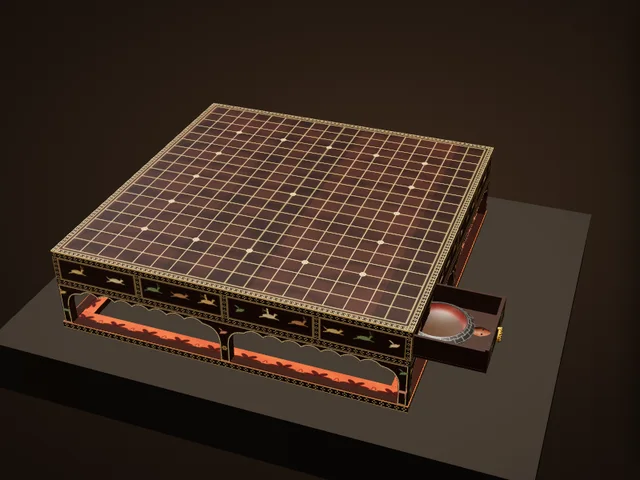
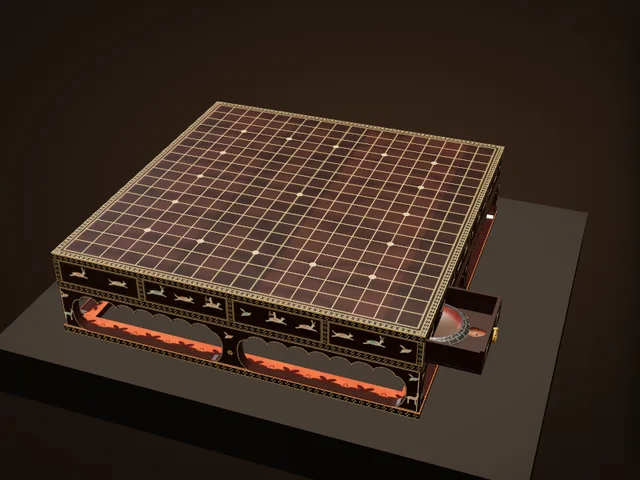
博物館：木画紫檀棊局の開口部を正倉院の細部写真に合わせ直し、側面の鳥獣を染め象牙風に
Claude-Session: https://claude.ai/code/session_01EiWRAZTxRF5M5nk5vdR2jJ

diff --git a/atlas/museum/ex/shosoin.js b/atlas/museum/ex/shosoin.js
@@ -19,8 +19,16 @@
       const shitan = K.mat({ map: shT, roughnessMap: shR, color: '#ffffff', roughness: .5, clearcoat: .4, clearcoatRoughness: .35 });
       const ivory = K.mat({ color: '#e9dcbc', roughness: .4, clearcoat: .25, clearcoatRoughness: .4 });
       const C = { iv: '#e6d2a4', box: '#d9b46a', grn: '#7d9468', red: '#b98a62', dk: '#3a1a10', tan: '#c49a5c', pink: '#d99a86' };
+      // dyed, engraved ivory (撥鏤風): the piece stays ivory, washed with colour in places and pricked with fine dots (the Shōsōin's detail photographs)
+      let dq = 5; const dr = () => ((dq = (dq * 16807) % 2147483647) / 2147483647);
+      const dye = (g, col) => { g.save(); g.clip('evenodd'); g.fillStyle = '#eadfc4'; g.fillRect(-45, -45, 90, 80);
+        const w1 = col === C.grn ? '#6fa08c' : col === C.iv ? '#d9a27c' : '#dd8f6c', w2 = col === C.grn ? '#d8a070' : '#7fa7a0';
+        let gr = g.createRadialGradient(-6 + dr() * 12, -6, 2, 0, 0, 30); gr.addColorStop(0, w1); gr.addColorStop(1, 'rgba(234,223,196,0)'); g.globalAlpha = .8; g.fillStyle = gr; g.fillRect(-45, -45, 90, 80);
+        gr = g.createRadialGradient(18 - dr() * 40, 6, 1, 10, 4, 16); gr.addColorStop(0, w2); gr.addColorStop(1, 'rgba(234,223,196,0)'); g.globalAlpha = .45; g.fillStyle = gr; g.fillRect(-45, -45, 90, 80);
+        g.globalAlpha = .7; g.fillStyle = '#8a3a22'; for (let i = 0; i < 46; i++) { g.beginPath(); g.arc(-30 + dr() * 60, -24 + dr() * 44, .5, 0, 6.29); g.fill(); }
+        g.restore(); };
       const sil = (g, kind, x, y, k, col) => {   // a figure in silhouette with a few engraved lines (the 撥鏤-like detail)
-        g.save(); g.translate(x, y); g.scale(k, k); g.fillStyle = col; g.strokeStyle = 'rgba(40,18,8,.55)'; g.lineWidth = .9; g.beginPath();
+        g.save(); g.translate(x, y); g.scale(k, k); g.fillStyle = col; g.strokeStyle = 'rgba(60,26,12,.7)'; g.lineWidth = .7; g.beginPath();
         if (kind === 'camel') { g.moveTo(-26, 4); g.quadraticCurveTo(-24, -14, -10, -16); g.quadraticCurveTo(-4, -26, 2, -16); g.quadraticCurveTo(8, -24, 14, -14); g.quadraticCurveTo(20, -12, 22, -22); g.lineTo(30, -26); g.lineTo(31, -21); g.lineTo(26, -18); g.quadraticCurveTo(24, -4, 18, 2);
           g.lineTo(18, 22); g.lineTo(14, 22); g.lineTo(13, 4); g.lineTo(-14, 4); g.lineTo(-15, 22); g.lineTo(-19, 22); g.lineTo(-20, 4); g.closePath(); }
         else if (kind === 'elephant') { g.moveTo(-28, -2); g.quadraticCurveTo(-26, -24, 0, -24); g.quadraticCurveTo(18, -24, 22, -10); g.quadraticCurveTo(30, -6, 30, 8); g.quadraticCurveTo(30, 20, 34, 22); g.lineTo(28, 22); g.quadraticCurveTo(24, 10, 22, 4);
@@ -53,13 +61,13 @@
             g.moveTo(-4, -10); g.lineTo(-7, -24); g.lineTo(-1, -24); g.lineTo(2, -10); g.closePath(); g.moveTo(-1, -28); g.arc(-4, -28, 3.4, 0, 6.29);
             g.moveTo(-5, -21); g.lineTo(-17, -23); g.lineTo(-17, -21); g.lineTo(-5, -19); g.closePath();
             g.moveTo(-17, -33); g.quadraticCurveTo(-24, -22, -17, -11); g.lineTo(-16.2, -11.4); g.quadraticCurveTo(-22.4, -22, -16.2, -32.6); g.closePath(); }
-          g.fill('evenodd'); g.stroke(); g.beginPath(); g.moveTo(-8, -6); g.quadraticCurveTo(2, -3, 12, -6); g.moveTo(14, -4); g.lineTo(17, -12); g.stroke();   // engraved lines
+          g.fill('evenodd'); dye(g, col); g.stroke(); g.beginPath(); g.moveTo(-8, -6); g.quadraticCurveTo(2, -3, 12, -6); g.moveTo(14, -4); g.lineTo(17, -12); g.stroke();   // engraved lines
           g.fillStyle = 'rgba(40,14,6,.75)'; g.beginPath(); g.arc(kind === 'hound' ? 26 : 23.5, kind === 'hound' ? -11 : -15, 1, 0, 6.29); g.fill(); g.restore(); return; }
         else if (kind === 'tree') { g.moveTo(-1.6, 24); g.lineTo(-1.2, -2); g.lineTo(1.2, -2); g.lineTo(1.6, 24); g.closePath(); for (let i = 0; i < 5; i++) { const yy = -4 - i * 6, ww = 14 - i * 2.2; g.moveTo(0, yy - 6); g.quadraticCurveTo(ww, yy, 0, yy + 2); g.quadraticCurveTo(-ww, yy, 0, yy - 6); } }
         else if (kind === 'flower') { for (let i = 0; i < 6; i++) { const a = i * Math.PI / 3; g.moveTo(0, 0); g.ellipse(Math.cos(a) * 6, Math.sin(a) * 6, 6, 3, a, 0, 6.29); } }
         else if (kind === 'lion') { g.moveTo(-24, 4); g.quadraticCurveTo(-22, -12, -4, -12); g.quadraticCurveTo(8, -24, 20, -14); g.quadraticCurveTo(26, -8, 22, 0); g.lineTo(18, 22); g.lineTo(13, 22); g.lineTo(12, 6); g.lineTo(-14, 6); g.lineTo(-17, 22); g.lineTo(-21, 22); g.lineTo(-22, 6);
           g.quadraticCurveTo(-34, 0, -30, -12); g.quadraticCurveTo(-28, -2, -24, 4); g.closePath(); }
-        g.fill('evenodd'); g.stroke(); g.restore();
+        g.fill('evenodd'); if (kind !== 'flower' && kind !== 'tree') dye(g, col); g.stroke(); g.restore();
       };
 
       // a band of small ivory lozenges (the "diamond chain" round every edge in the photographs)
@@ -115,21 +123,21 @@
       const edgeM = K.mat({ map: edgeT, color: '#ffffff', roughness: .45, clearcoat: .35 });
       add(new TT.BoxGeometry(S + .1, TOP, S + .1), [edgeM, edgeM, faceMat, shitan, edgeM, edgeM], 0, H - TOP / 2, 0);
       /* ---------- the 床脚: corner legs, a post in the middle of each side, openings with cusped tops, the floor rail ---------- */
-      const LEG = 1.15, POST = 1.25, OH = BASE - RAIL - .05;   // leg / post width; the openings' height (the cusps hang right under the body)
+      const LEG = 1.45, POST = 1.9, OH = BASE - RAIL - .05;   // leg / post width; the openings' height (the cusps hang right under the body)
       const skirt = new TT.Shape(); skirt.moveTo(-S / 2, 0); skirt.lineTo(S / 2, 0); skirt.lineTo(S / 2, BASE - RAIL); skirt.lineTo(-S / 2, BASE - RAIL); skirt.closePath();
-      const open = (x0, x1) => { const p = new TT.Path(), top = OH, E = 2.3, nC = 7, xa0 = x0 + E, xa1 = x1 - E, cw = (xa1 - xa0) / nC, dip = .95;
-        // (the photograph) the sides drop straight to the floor frame; at each top corner the leg sweeps out in a long concave curve to a
-        // point, and between the two points hangs a row of seven shallow cusps
-        p.moveTo(x0, 0); p.lineTo(x1, 0); p.lineTo(x1, top - 3.3); p.quadraticCurveTo(x1 - .15, top - 1.0, xa1, top - dip);
-        for (let i = nC; i > 0; i--) { const xa = xa0 + i * cw, xb = xa - cw; p.quadraticCurveTo((xa + xb) / 2, top + .25, xb, top - dip); }
-        p.quadraticCurveTo(x0 + .15, top - 1.0, x0, top - 3.3); p.lineTo(x0, 0); return p; };
+      const open = (x0, x1) => { const p = new TT.Path(), top = OH, E = 1.55, B = 1.9, nC = 7, xa0 = x0 + E, xa1 = x1 - E, cw = (xa1 - xa0) / nC, dip = 1.45, at = .5;
+        // (the Shōsōin's detail photographs CO0000000428–430) each end a full round bulge — the leg narrowest two-thirds of the way up and
+        // spreading to its foot — and across the top seven arches, their points hanging down between them
+        p.moveTo(x0 + B, 0); p.lineTo(x1 - B, 0); p.bezierCurveTo(x1 + .35, .15, x1 + .45, top - 1.3, xa1, top - dip);
+        for (let i = nC; i > 0; i--) { const xa = xa0 + i * cw, xb = xa - cw; p.bezierCurveTo(xa - cw * .1, top - at + .15, xb + cw * .1, top - at + .15, xb, top - dip); }
+        p.bezierCurveTo(x0 - .45, top - 1.3, x0 - .35, .15, x0 + B, 0); return p; };
       const half = (S - 2 * LEG - POST) / 2;
       skirt.holes.push(open(-S / 2 + LEG, -S / 2 + LEG + half), open(S / 2 - LEG - half, S / 2 - LEG));
       const skG = new TT.ExtrudeGeometry(skirt, { depth: 1.2, bevelEnabled: true, bevelThickness: .06, bevelSize: .06, bevelSegments: 1, curveSegments: 10 });
       // the legs' faces: dark shitan edged in ivory, little birds and deer set into the legs and the post
       const legT = K.tex(2048, Math.round(2048 * (BASE - RAIL) / S), (g, w, h) => { g.drawImage(shT.image, 0, 0, w, h); const s = w / S;
         g.strokeStyle = C.iv; g.lineWidth = s * .08; g.strokeRect(s * .15, s * .1, w - s * .3, h - s * .2);
-        g.strokeStyle = '#e4cf9a'; g.lineWidth = s * .2; skirt.holes.forEach(hp => { g.beginPath(); hp.getPoints(24).forEach((p, i) => { const X = (p.x + S / 2) * s, Y = h - p.y * s; i ? g.lineTo(X, Y) : g.moveTo(X, Y); }); g.closePath(); g.stroke(); });
+        g.strokeStyle = '#e4cf9a'; g.lineWidth = s * .1; skirt.holes.forEach(hp => { g.beginPath(); hp.getPoints(24).forEach((p, i) => { const X = (p.x + S / 2) * s, Y = h - p.y * s; i ? g.lineTo(X, Y) : g.moveTo(X, Y); }); g.closePath(); g.stroke(); });
         [[LEG / 2, 'bird', .8], [LEG / 2, 'deer', .3], [S / 2, 'bird', .75], [S / 2, 'flower', .35], [S - LEG / 2, 'bird', .8], [S - LEG / 2, 'deer', .3]].forEach(([x, kd, fy], i) => sil(g, kd, x * s, h * (1 - fy), s * .035, [C.box, C.grn, C.pink][i % 3])); });
       legT.repeat.set(1 / S, 1 / (BASE - RAIL)); legT.offset.set(.5, 0);
       const legM = K.mat({ map: legT, color: '#ffffff', roughness: .5, clearcoat: .35, clearcoatRoughness: .35 });
@@ -148,7 +156,7 @@
       [[S + .3, RW, 0, S / 2 - RW / 2 + .15], [S + .3, RW, 0, -S / 2 + RW / 2 - .15]].forEach(([w, d, x, z]) => add(new TT.BoxGeometry(w, RAIL, d), [rsEnd, rsEnd, kak, shitan, z > 0 ? rsM : shitan, z > 0 ? shitan : rsM], x, RAIL / 2, z));
       [[RW, S - 2 * RW + .3, S / 2 - RW / 2 + .15, 0], [RW, S - 2 * RW + .3, -S / 2 + RW / 2 - .15, 0]].forEach(([w, d, x, z]) => { const k2 = kak.clone(); k2.map = kakT.clone(); k2.map.center.set(.5, .5); k2.map.rotation = Math.PI / 2; k2.map.needsUpdate = true; add(new TT.BoxGeometry(w, RAIL, d), [x > 0 ? rsM : shitan, x > 0 ? shitan : rsM, k2, shitan, shitan, shitan], x, RAIL / 2, z); });
       /* ---------- the drawers: at diagonally opposite ends of the two side faces (±x); the near one pulled out ---------- */
-      const DW = S / 4 - .95, DH = BODY - TOP - 1.75, OUT = 8.6, gilt = K.mat({ color: '#d6a84c', roughness: .3, metalness: 1 });
+      const DW = S / 4 - .95, DH = BODY - TOP - 1.75, OUT = 6.4, gilt = K.mat({ color: '#d6a84c', roughness: .3, metalness: 1 });
       const dark = K.mat({ color: '#2a1810', roughness: .6 });
       const DG = new TT.Group(); DG.rotation.y = 0; G.add(DG);
       const drawer = (sx, z, out) => { const g2 = new TT.Group(); g2.position.set(sx * (S / 2 + out), BASE + (BODY - TOP) / 2, z); g2.rotation.y = sx > 0 ? Math.PI / 2 : -Math.PI / 2; DG.add(g2);

diff --git a/atlas/museum.js b/atlas/museum.js
@@ -32,7 +32,7 @@
   const ROOMS = [
     { id: 'map', ready: () => !!window.AtlasMap, render: (el, c) => AtlasMap.render(el, c) },
     { id: 'tree', src: ['museum/tree.js?v=3'], ready: () => !!window.AtlasTree, render: (el, c) => AtlasTree.render(el, c) },
-    { id: 'gallery', src: ['museum/gallery.js?v=48'], ready: () => !!window.AtlasGallery, render: (el, c) => AtlasGallery.render(el, c) },
+    { id: 'gallery', src: ['museum/gallery.js?v=49'], ready: () => !!window.AtlasGallery, render: (el, c) => AtlasGallery.render(el, c) },
   ];
   const KEY = 'atlas-museum-room';
   const esc = s => String(s == null ? '' : s).replace(/[&<>"]/g, c => ({ '&': '&amp;', '<': '&lt;', '>': '&gt;', '"': '&quot;' }[c]));

diff --git a/atlas/index.html b/atlas/index.html
@@ -2559,7 +2559,7 @@ window.AtlasRgdTimer = function (btn, ms, alive) {
 <link rel="stylesheet" href="worldmap.css?v=19">
 <link rel="stylesheet" href="museum.css?v=4">
 <script src="worldmap.js?v=40"></script>
-<script src="museum.js?v=49"></script>
+<script src="museum.js?v=50"></script>
 <script src="npc/npc.js?v=46"></script>
 <script src="avtalk.js?v=4"></script>
 <script>/* Page states as classes on <html> (2026-11-21) — html.cov-on: the 3D view / Historia / a sheet / a level sheet is open;

diff --git a/atlas/museum/gallery.js b/atlas/museum/gallery.js
@@ -10,7 +10,7 @@
    (a turn, a zoom, the slow turntable) and never while the window is in the background. */
 (function () {
   'use strict';
-  const V = 48;
+  const V = 49;
   /* ---------- the pieces: id, the game it belongs to, its scale (cm per model unit), the camera's start, the details ----------
      lock: { game, ach } → open after that many achievements of the game. src: the files the piece needs (besides ex/<id>.js) */
   const EX = [

diff --git a/claude/museum-spec.md b/claude/museum-spec.md
@@ -68,7 +68,7 @@
       - オスマン盤バックギャモン面：螺鈿の配置は V&A 写真 2012FP3720 を正方形に直して抜き出した配置図（images/atlas/ex/ottoman-inlay.webp、アルファ＝貝と骨の線、赤＝緑染めの骨）をそのまま使う。貝・鼈甲の質感は従来どおりコードで描く。枠（立ち上がり）も同じ絵の該当部分を貼る。
       - セネト盤：展示写真（正面）に合わせ、台の高さを写真から測った約17cm（全体約25cm）に、脚を太く、足先は4本の長い指（爪は見せない）、金の円筒は段つき、マスの間の黒檀の帯を太く（マスの約1/6）、銘文帯を大きく・王名の輪を引き出しと反対の端に、26〜29番のマスの印（ネフェル3つ・水・鳥3羽・人2人）、投げ棒は茶色の木の2本、距骨は琥珀色2・象牙色1。
     - セネト盤の銘文：グリフィス研究所のカーターの記録カード345-06（箱の文字の写し）に従い、王の五つの名を実際の順で刻む（引き出し側の側面は右から左へ読む向き、王名の輪は左端）。引き出しの口のまわりにも枠状の銘文。引き出しの前板は無地。
-    - 木画紫檀棊局：斜め写真から測って、胴5.3cm・開口部5.4cm・床の枠1.0cmに。開口部は側辺がまっすぐ床の枠まで下り、上の両隅から脚が大きな凹曲線で張り出し、その間に浅い7つの花先が下がる形。隅の脚と中央の柱を細く。側面の動物は小さく、色を抑えた。
+    - 木画紫檀棊局：斜め写真から測って、胴5.3cm・開口部5.4cm・床の枠1.0cmに。開口部は正倉院の細部写真（CO0000000428〜430）に合わせ、両端が丸くふくらみ（脚は上3分の2あたりが最も細く、足元へ広がる）、上辺は7つの弧が並んで先が下がる形（先の版の「側辺がまっすぐ」は誤り）。側面の鳥獣は象牙色の地に色をぼかし、細かい点を打つ（撥鏤風）。隅の脚と中央の柱を細く。側面の動物は小さく、色を抑えた。
     - ダイスタワー：博物館写真に合わせて描き直し（青灰色の錫引き、正面板は階段の上で終わる、太い等幅の大文字、側面は四弁の小孔＋八弁ロゼットの方形2段、松かさ3つ、右前の玉縁、丸い4段の階段、鈴）。
     - オスマン盤バックギャモン面：V&A カラー写真 2012FP3720 を測って描き直し（杯＋首＋肩つきの穂先の糸杉形、点の間の貝の板の帯、穂先の下のパルメットと持ち送り・尖頭アーチ、中央の狭・広・狭の3帯）。
   - **「この3Dモデルについて」は2文まで**（2026-11-22 ユーザー指示）：何に基づいたか、どこが推定かだけを短く書く。長い説明は誰も読まない。
